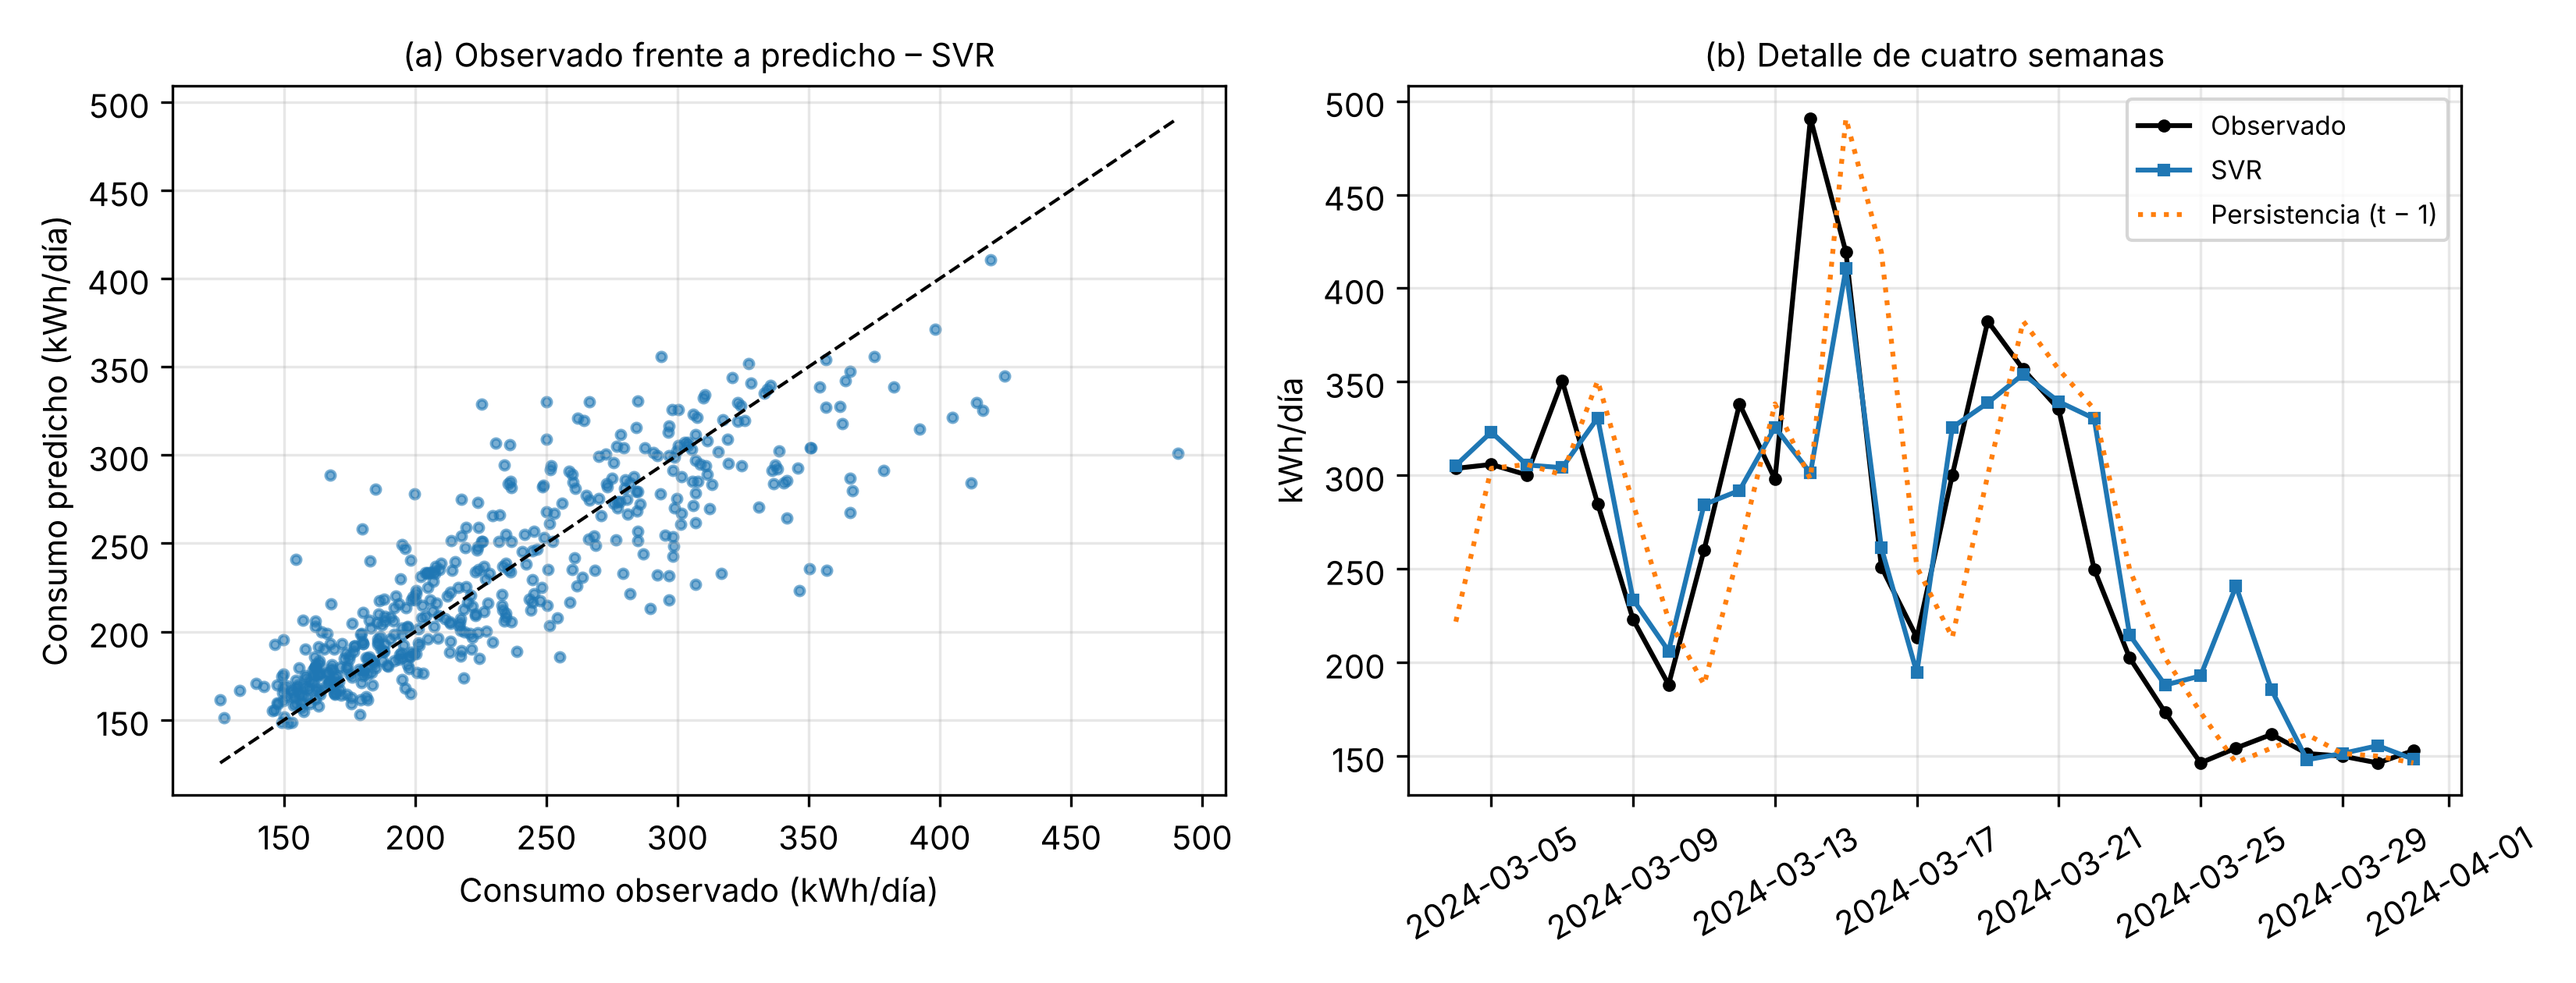
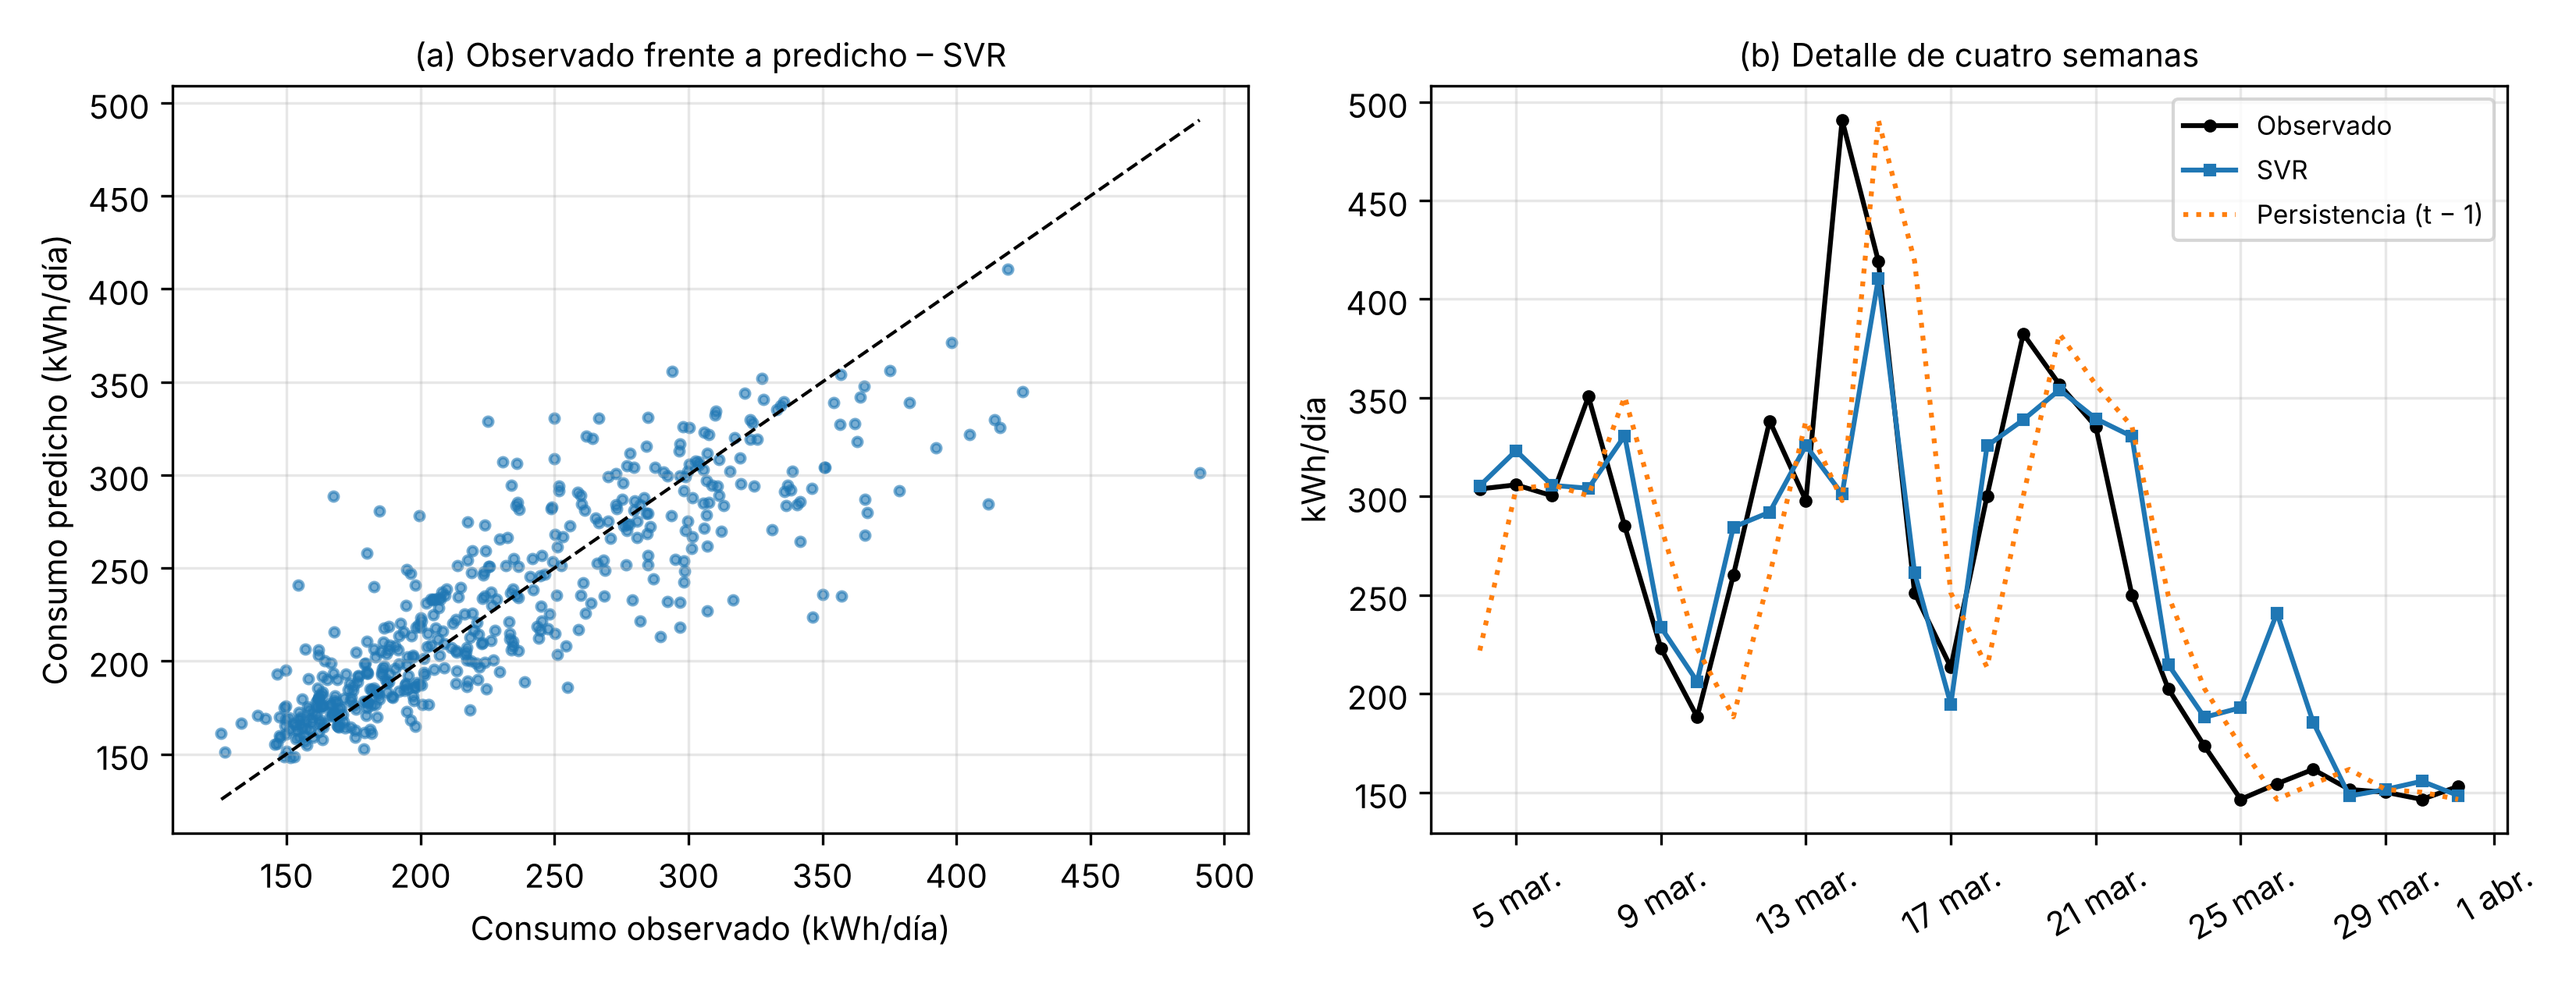
Add files via upload
Versión 1.2: sensibilidad a la degradación y formato de fechas

diff --git a/src/04_prediccion_consumo.py b/src/04_prediccion_consumo.py
@@ -32,6 +32,8 @@ import holidays
 import matplotlib
 matplotlib.use('Agg')
 import matplotlib.pyplot as plt
+import matplotlib.dates as mdates
+from matplotlib.ticker import FuncFormatter
 from sklearn.linear_model import Ridge
 from sklearn.preprocessing import StandardScaler, PolynomialFeatures
 from sklearn.pipeline import Pipeline
@@ -41,7 +43,7 @@ from sklearn.model_selection import ParameterGrid
 from statsmodels.tsa.statespace.sarimax import SARIMAX
 from statsmodels.tsa.holtwinters import ExponentialSmoothing
 
-from comun import cargar_config, ruta, carpeta_resultados, metricas, ic_rmse_bloques, guardar_json
+from comun import cargar_config, ruta, carpeta_resultados, metricas, ic_rmse_bloques, guardar_json, MESES_ES
 
 cfg = cargar_config()
 c = cfg['consumo']
@@ -278,6 +280,7 @@ ax[1].set_title('(b) Detalle de cuatro semanas', fontsize=10)
 ax[1].set_ylabel('kWh/día')
 ax[1].legend(fontsize=8)
 ax[1].grid(alpha=0.3)
+ax[1].xaxis.set_major_formatter(FuncFormatter(lambda v, _: f'{mdates.num2date(v).day} {MESES_ES[mdates.num2date(v).month - 1]}.'))
 ax[1].tick_params(axis='x', rotation=30)
 plt.tight_layout()
 plt.savefig(f'{salida}/fig_prediccion_consumo.png', dpi=300)

diff --git a/src/05_prediccion_irradiancia.py b/src/05_prediccion_irradiancia.py
@@ -33,7 +33,7 @@ from sklearn.ensemble import RandomForestRegressor, HistGradientBoostingRegresso
 from sklearn.model_selection import ParameterGrid
 
 from comun import (cargar_config, ruta, carpeta_resultados, leer_nasa_power, metricas, ic_rmse_dias,
-                   guardar_json, coma)
+                   guardar_json, coma, MESES_ES)
 
 cfg = cargar_config()
 s, ci = cfg['sitio'], cfg['irradiancia']
@@ -255,7 +255,7 @@ ax.set_ylabel('GHI (W/m²)')
 ax.set_ylim(0, 800)
 ax.grid(alpha=0.3)
 ax.legend(fontsize=9, ncol=4, loc='upper center', bbox_to_anchor=(0.5, -0.12), frameon=False)
-ax.xaxis.set_major_formatter(FuncFormatter(lambda v, _: mdates.num2date(v).strftime('%d/%m')))
+ax.xaxis.set_major_formatter(FuncFormatter(lambda v, _: f'{mdates.num2date(v).day} {MESES_ES[mdates.num2date(v).month - 1]}.'))
 plt.tight_layout()
 plt.savefig(f'{salida}/fig_prediccion_irradiancia.png', dpi=300)
 plt.close()

diff --git a/src/06_evaluacion_economica.py b/src/06_evaluacion_economica.py
@@ -162,6 +162,7 @@ sens = {
     'Costo evitado por kWh (−15 % / +15 %)': ('costo_evitado', [round(b['costo_evitado'] * 0.85, 2), round(b['costo_evitado'] * 1.15, 2)]),
     'Valor del crédito de energía (−15 % / +15 %)': ('valor_credito', [round(b['valor_credito'] * 0.85, 2), round(b['valor_credito'] * 1.15, 2)]),
     'O&M (0,5 % / 2 % de la inversión)': ('om_pct', [0.5, 2.0]),
+    'Degradación anual (0,25 % / 1 %)': ('degradacion', [0.25, 1.0]),
     'Escalamiento real de precios (−1 % / +2 %)': ('escalamiento', [-1, 2]),
 }
 filas = []

diff --git a/README.md b/README.md
@@ -29,7 +29,7 @@ resultados/                     Tablas (CSV y JSON) y figuras (PNG, 300 ppp) gen
 
 | Archivo | Contenido | Periodo | Resolución |
 |---|---|---|---|
-| `consumo_medidor.xlsx` | Energía activa del medidor de la sede (hojas anuales con columnas HORA 1–24 y hoja `Dias` con totales diarios) | 2019-01-01 a 2025-04-30 | Horaria hasta 2024; diaria hasta 2025-04-30 |
+| `consumo_medidor.xlsx` | Energía activa del medidor de la sede (hojas anuales con columnas HORA 1–24 y hoja `Dias` con totales diarios) | 2019-01-01 a 2025-04-30 | Horaria hasta 2024 y diaria hasta 2025-04-30 |
 | `nasa_power_irradiancia.csv` | GHI, DNI y DHI de NASA POWER (CERES SYN1deg), punto 1,1981° N, 77,2781° O, hora solar local | 2015-01-01 a 2025-09-09 (sin datos de irradiancia desde 2025-05-31) | Horaria |
 | `nasa_power_meteorologia.csv` | Temperatura, humedad y viento de NASA POWER (MERRA-2) | 2015-01-01 a 2025-09-09 | Horaria |
 | `estacion_meteorologica.xlsx` | Irradiancia y variables meteorológicas de la estación local | 2025-02-03 a 2025-05-27 | ~2 min |
@@ -37,21 +37,21 @@ resultados/                     Tablas (CSV y JSON) y figuras (PNG, 300 ppp) gen
 
 Consideraciones sobre los datos:
 
-* En la hoja `Dias`, el año 2023 aparece duplicado; el código elimina las fechas repetidas.
+* En la hoja `Dias`, el año 2023 aparece duplicado, por lo que el código elimina las fechas repetidas.
 * Desde el 5 de mayo de 2024, el sistema fotovoltaico existente opera detrás del medidor, por lo que este registra la importación neta. El paso 4 reconstruye el consumo bruto sumando la energía diaria del sistema existente: la medida por el inversor cuando existe y la modelada y calibrada en el resto del periodo.
-* Las componentes DNI y DHI de NASA POWER no cierran con la GHI; el modelo fotovoltaico obtiene ambas componentes de la GHI con el modelo de Erbs.
+* Las componentes DNI y DHI de NASA POWER no cierran con la GHI, por lo que el modelo fotovoltaico obtiene ambas componentes de la GHI con el modelo de Erbs.
 
 ## Protocolo de evaluación de los pronósticos
 
 * **Partición temporal sin mezcla:**
-  * entrenamiento hasta 2022-12-31;
-  * validación durante 2023;
-  * prueba desde 2024-01-01.
-* **Selección de modelos:** los hiperparámetros se eligen solo con el error en validación; el modelo elegido se reentrena con entrenamiento y validación y se evalúa una sola vez en prueba.
+  * entrenamiento hasta 2022-12-31
+  * validación durante 2023
+  * prueba desde 2024-01-01
+* **Selección de modelos:** los hiperparámetros se eligen solo con el error en validación. El modelo elegido se reentrena con entrenamiento y validación y se evalúa una sola vez en prueba.
 * **Origen móvil:** cada pronóstico usa únicamente información disponible en el instante de emisión.
 * **Referencias:**
-  * consumo: persistencia (t − 1) y persistencia semanal (t − 7);
-  * irradiancia: persistencia, persistencia de 24 h, climatología mes-hora y persistencia inteligente.
+  * consumo: persistencia (t − 1) y persistencia semanal (t − 7)
+  * irradiancia: persistencia, persistencia de 24 h, climatología mes-hora y persistencia inteligente
 * **Métricas:** MAE, RMSE, nRMSE (RMSE/media observada), MBE, R² e índice de habilidad s = 1 − RMSE/RMSE_ref. Las de irradiancia se calculan solo en horas diurnas (ángulo cenital < 85°).
 * **Intervalos de confianza del 95 % del RMSE:** remuestreo por bloques de 7 días para el consumo y por días completos para la irradiancia.
 * **Redes LSTM:** se entrenan con tres semillas y se reporta el promedio de sus predicciones.
@@ -78,12 +78,22 @@ Los valores están en `config/parametros.json`:
 * **Inversión:** costo de referencia de 867 USD/kW y TRM de 3.158,43 COP/USD.
 * **Operación y mantenimiento:** 1 % anual de la inversión.
 * **Vida útil y operación:** reemplazo de inversores en el año 13, degradación de 0,5 % anual, vida útil de 25 años y tasa de descuento real del 10 %.
+* **Sensibilidad:** precio de bolsa, inversión, TRM, tasa de descuento, costo evitado, valor de los créditos de energía, operación y mantenimiento, degradación anual y escalamiento real de precios.
 
 ## Licencias
 
 * Código: MIT (archivo `LICENSE`).
 * Datos y resultados: Creative Commons Atribución 4.0 Internacional (CC BY 4.0).
 
+## Versiones
+
+* **1.2:** se añade la degradación anual de los módulos al análisis de sensibilidad y se unifica el formato de las fechas en las figuras.
+* **1.1:** primera versión completa del flujo, con datos, código y resultados.
+
 ## Cómo citar
 
-Si usa este material, cite el artículo asociado y este repositorio (el DOI se agregará al publicar la versión en Zenodo).
+Si usa este material, cite el artículo asociado y este repositorio. El DOI siguiente identifica todas las versiones y remite siempre a la más reciente:
+
+> Repositorio *prediccion-fv-campus*. Zenodo. https://doi.org/10.5281/zenodo.23810715
+
+[![DOI](https://zenodo.org/badge/DOI/10.5281/zenodo.23810715.svg)](https://doi.org/10.5281/zenodo.23810715)
